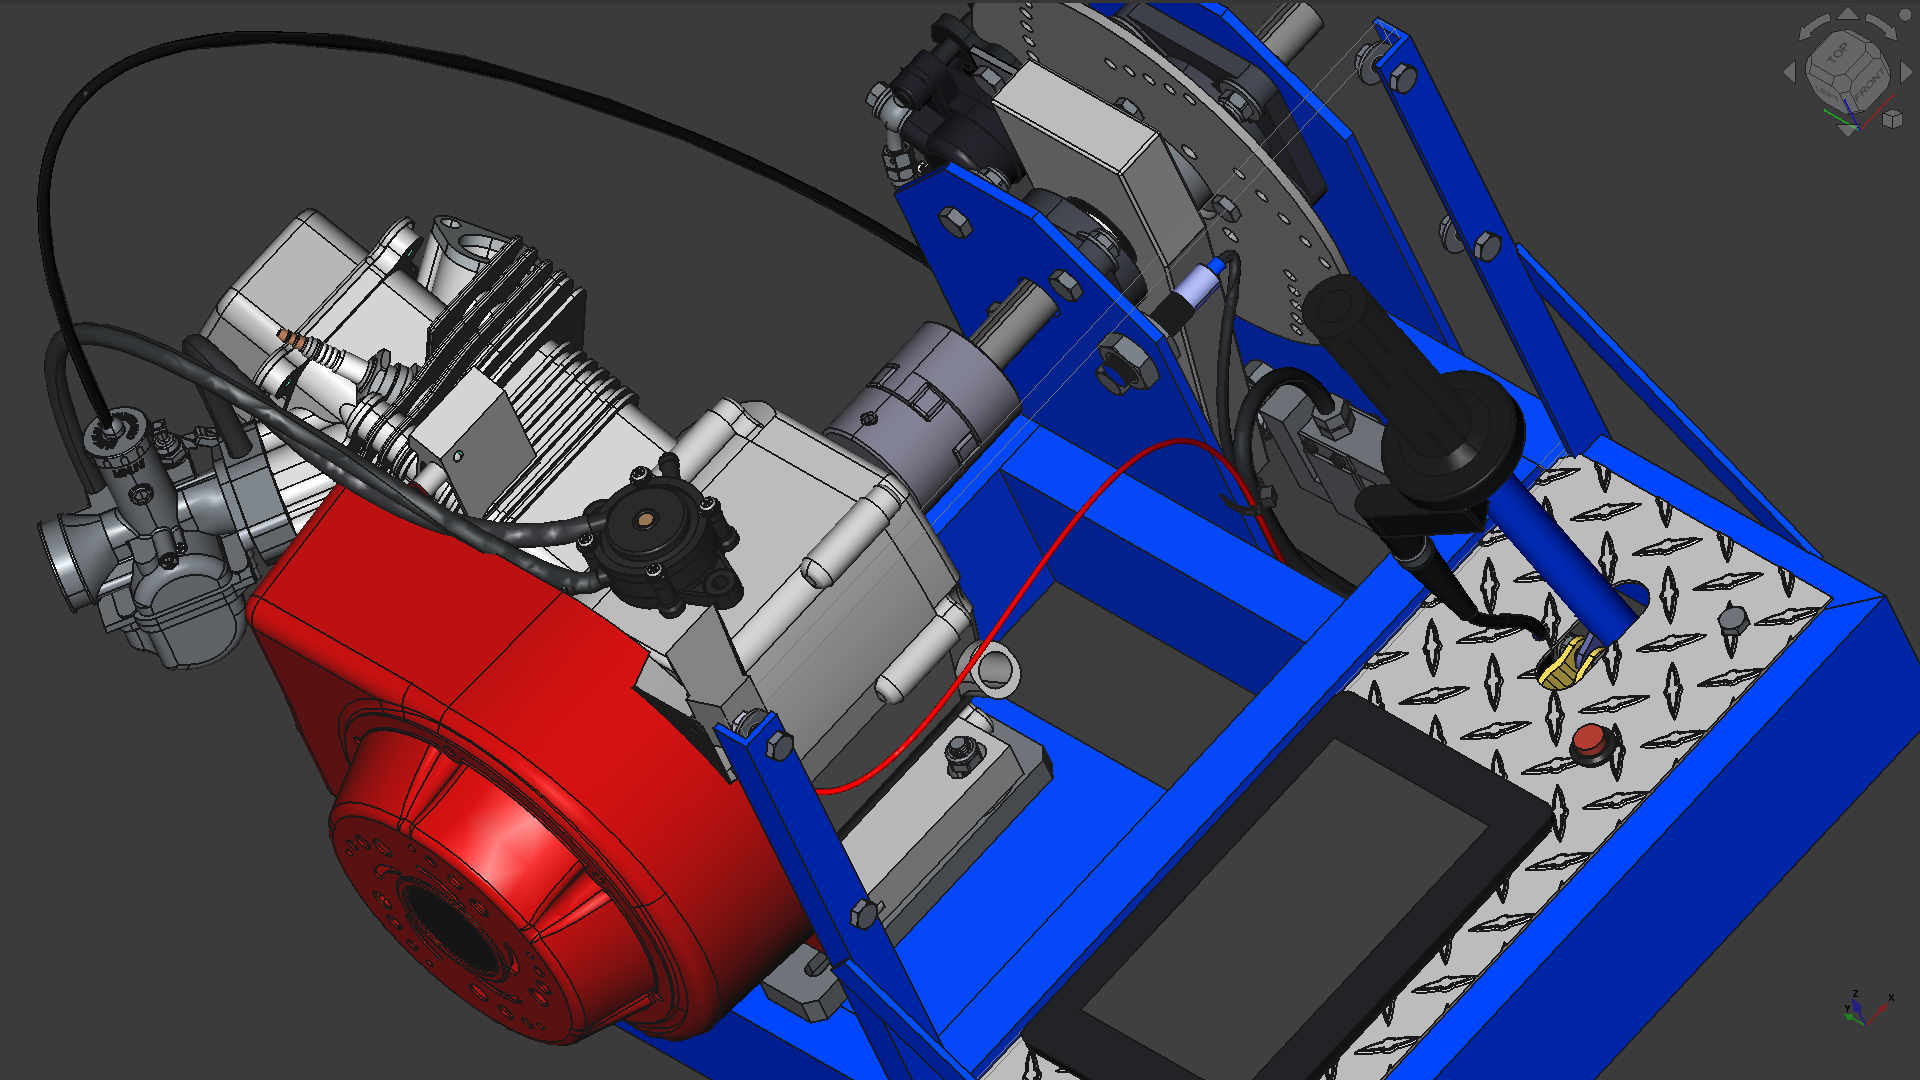
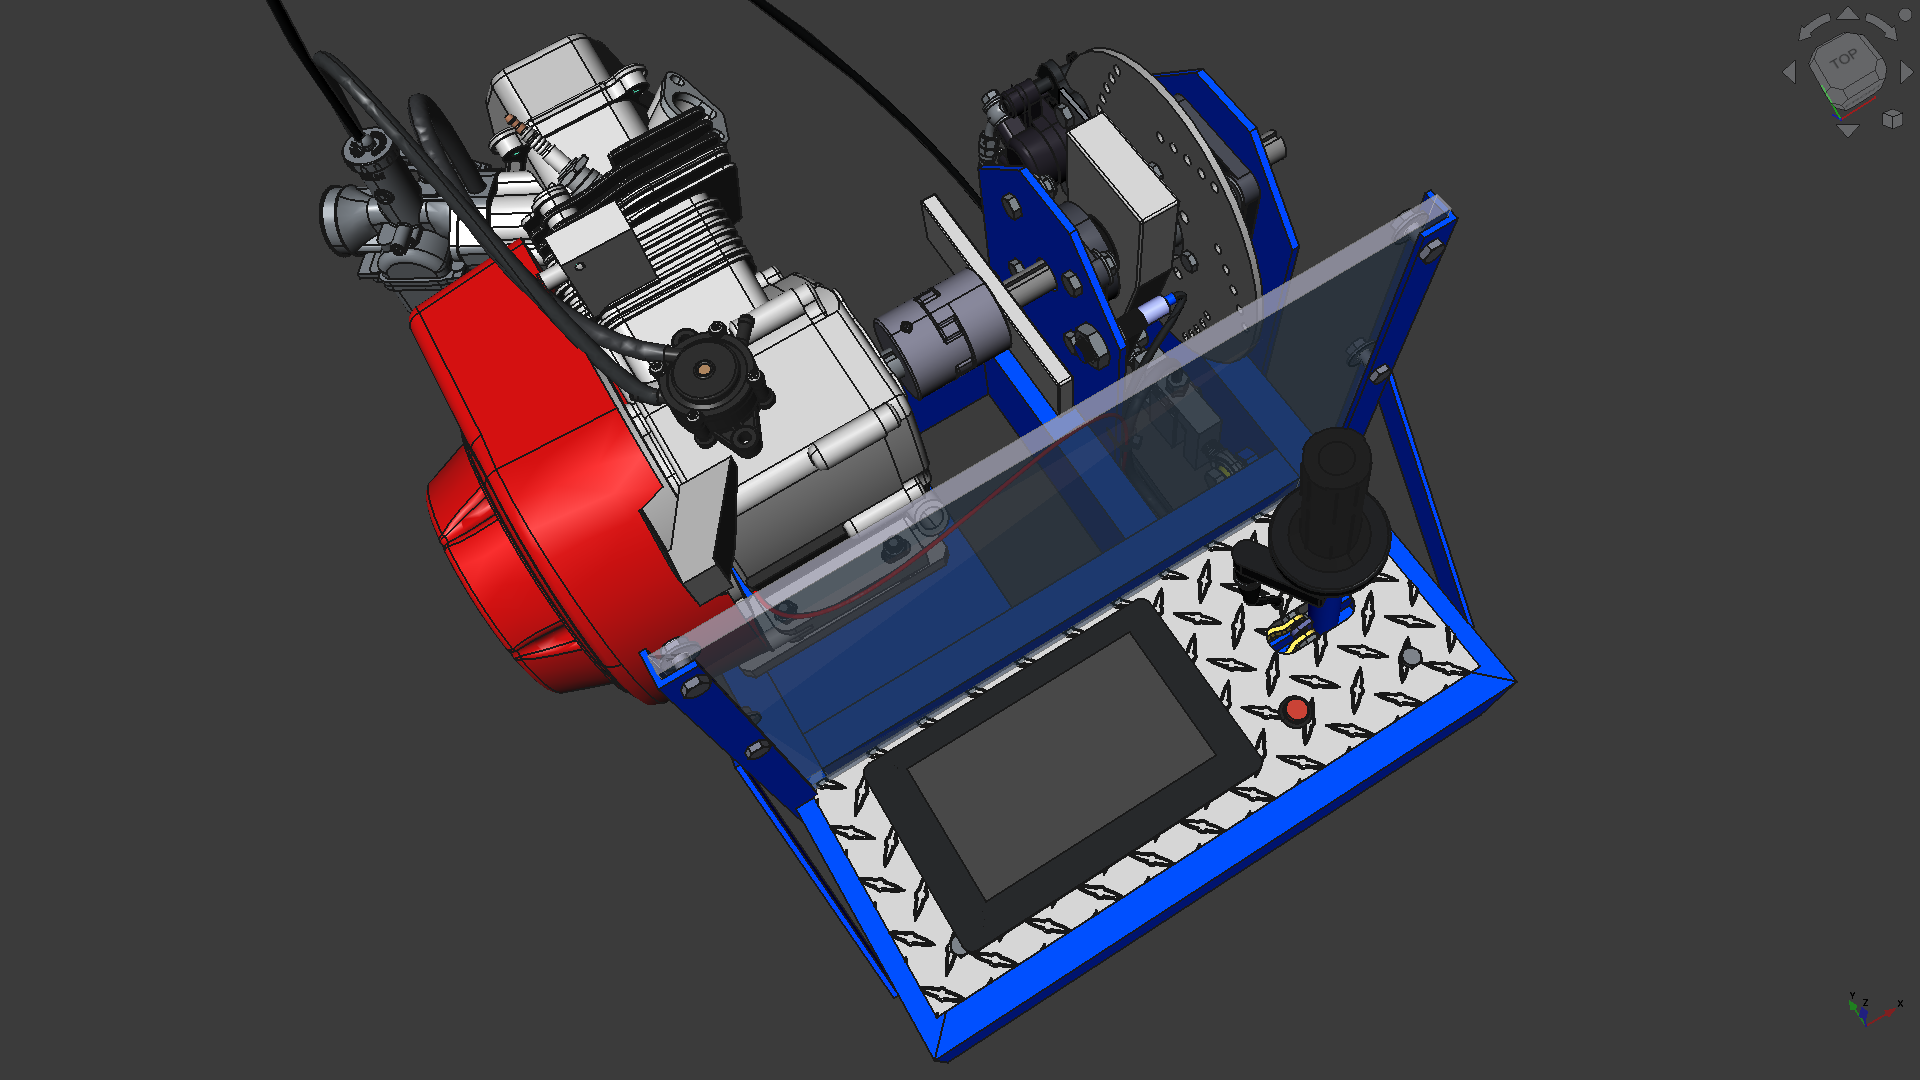
Found more typos, expanded the README, added new images.

diff --git a/README.md b/README.md
@@ -1,12 +1,14 @@
-I'm not going to hold your hand, but if you are capable of finishing this project on you own you don't need me to.
+I'm not going to hold your hand, but if you are capable of finishing this project on your own you don't need me to.
 
-I'm no pro at any one part of this project, so don't judge the code structure or the CAD file too harshly.
+I'm no expert at any one part of this project, so don't judge the code structure or the CAD file too harshly.
 
-You will need to cut, drill, and weld. You will need to get platformIO up and running in order to upload the code to the touchsreen. You will need to understand enough freeCAD to get the details you need from the cad file. If that sounds like a reasonable enough barrier to entry that you still want to build one yourself, you are exactly the reason I am open sourcing this project, I'm proud of you.
+You will need to cut, drill, and weld. You will have to solder to the pcb of the touchscreen. You will need to get platformIO up and running on your computer in order to upload the code to the touchsreen. You will need to understand enough freeCAD to get the parts and hardware breakdown you need from the cad file, along with the dimensions and locations of all the cut/drilled/welded parts. If that all sounds like a reasonable enough barrier to entry that you still want to build one yourself, you are exactly the reason I am open sourcing this project, I'm proud of you.
 
-If you do all of those things, and follow it through, here is the expected result:
+If you do all of those things, and follow it through, here is what the expected results will look like:
 
 ![There is supposed to be a picture here](images/fullscreen_1.png)
+
+![There is supposed to be a picture here](images/fullscreen_7.png)
 
 ![There is supposed to be a picture here](images/bench_shot1.jpg)
 
@@ -14,6 +16,6 @@ If you do all of those things, and follow it through, here is the expected resul
 
 ![There is supposed to be a picture here](images/engine_one1.jpg)
 
-The finished dyno has a 16"x16" footprint and can be easily transported to track day with your friends. It is powered by 5 volts over USB-C, I power mine from one of those cheap portable batteries for charging your phone or what have you.
+The finished dyno has a 16"x16" footprint and can be easily transported to track day with your friends, or just live in the corner of your shed not taking up much real estate. It is powered by 5 volts over USB-C, I power mine from one of those cheap portable batteries for charging your phone or what have you.
 
 I honestly couldn't tell you the limits of the dyno, a lot of that would come down to your craftsmanship. It does have two gauge/power ranges, the higher one goes up to 40hp, the low range caps at 20hp. You can also select an RPM range, with low topping out at 5000rpm, and high going to 10,000rpm.
